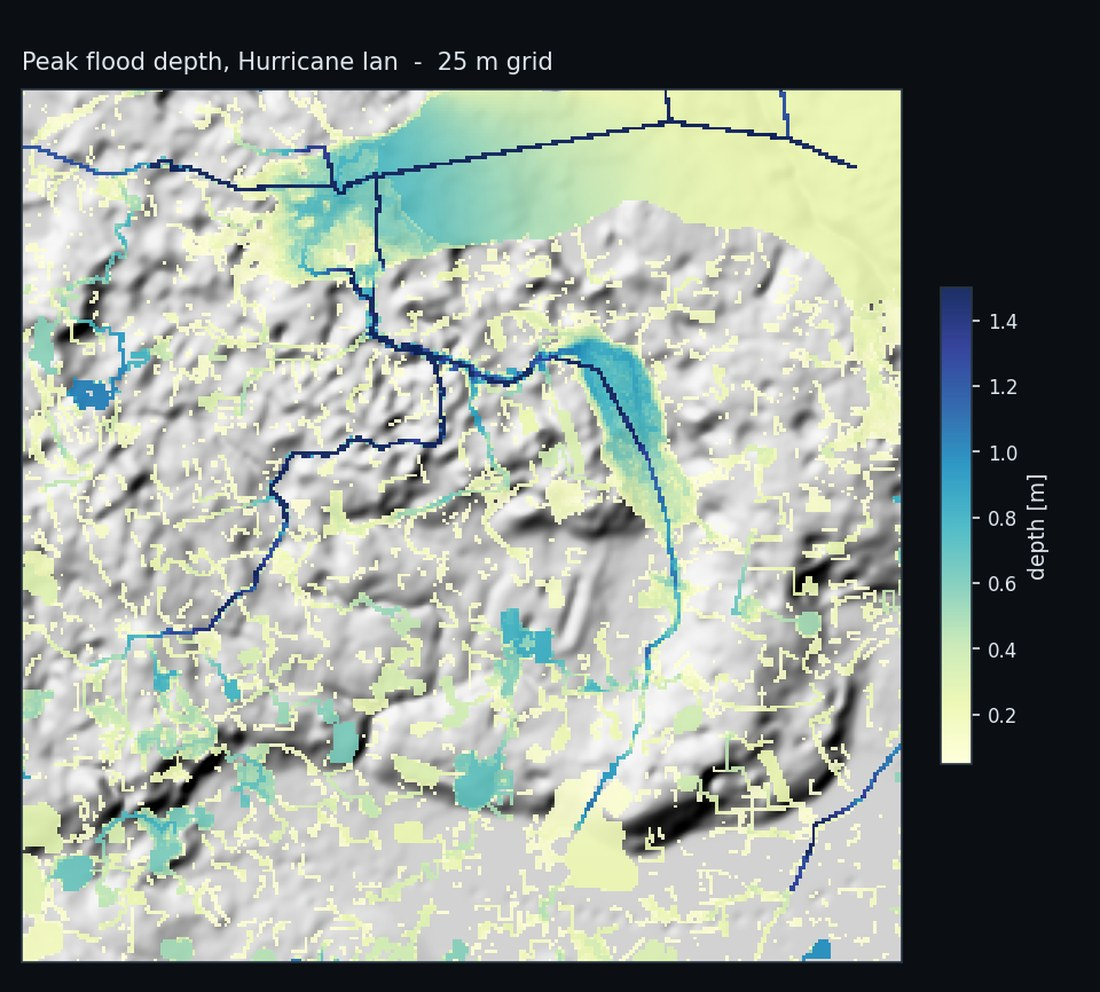
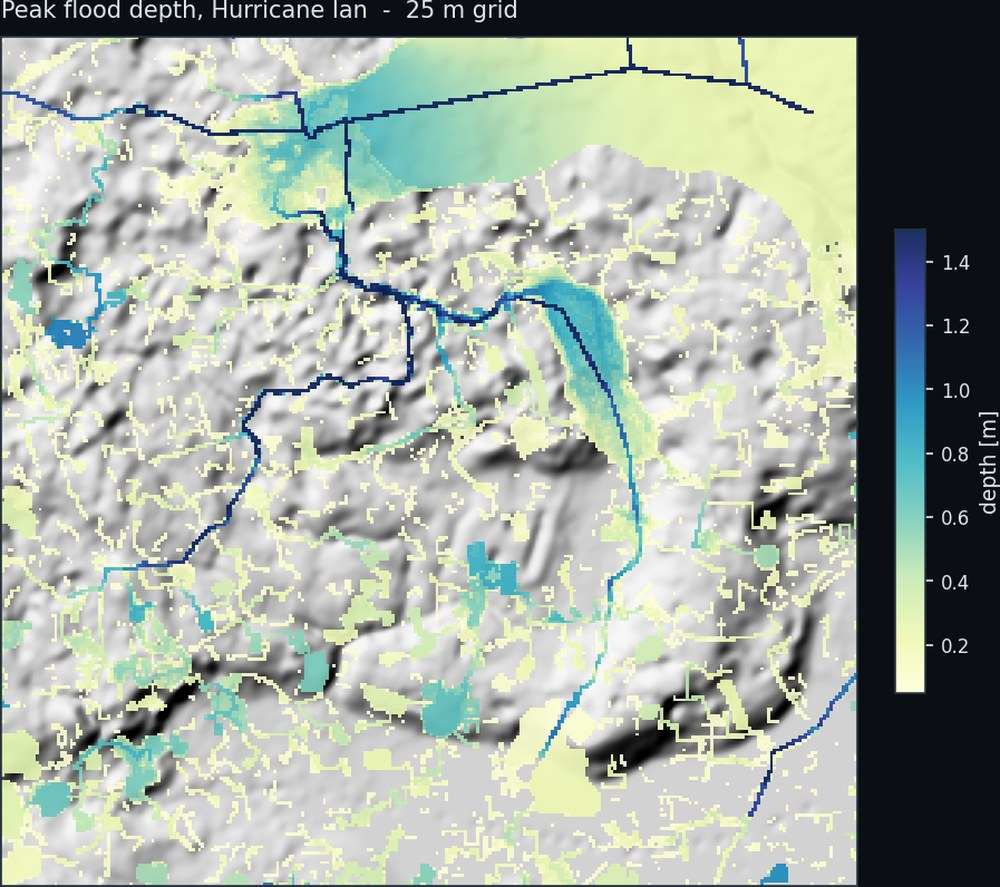
Fix fire card content, rename flood card, mark posters, trim flood figure
- Fire card rewritten from the CSDMS poster: it is fire dynamics, power
  supply and evacuation behaviour as one complex adaptive system, not
  generic compound hazards. Retitled 'Wildfire, power failure, and
  evacuation'; tags now include complex adaptive systems and evacuation.
- 'Flood digital twins from a coordinate' -> 'Site-specific flood
  digital twins'.
- Every conference entry that carried no badge is marked Poster.
- The flood figure was mostly dark padding, reading as a black block
  against the card. Border-trimmed 960x866 -> 897x796, so the map now
  fills the plate.

Claude-Session: https://claude.ai/code/session_01VQRwQxD7wGqEjXuAqsmFs3

diff --git a/index.html b/index.html
@@ -232,7 +232,7 @@
           <a class="research-figlink is-dark" href="pics/flood.jpg" target="_blank" rel="noopener" title="View full size"><img src="pics/flood.jpg" class="research-img"
                alt="Peak simulated flood depth for Hurricane Ian on a 25 m grid at Gee Creek, Florida, with depth shaded from pale yellow to dark blue over a hillshaded terrain and the drainage network picked out in blue" /></a>
           <div class="research-content">
-            <h3>Flood digital twins from a coordinate</h3>
+            <h3>Site-specific flood digital twins</h3>
             <p>
               Work from my time at Ecological Intelligence on the
               <a href="https://github.com/legel/deepearth/tree/models-hydro/models/hydro" target="_blank" rel="noopener">DeepEarth hydro model</a>:
@@ -267,29 +267,34 @@
       <article class="research-card">
         <div class="research-card-main">
           <a class="research-figlink" href="pics/fire.jpg" target="_blank" rel="noopener" title="View full size"><img src="pics/fire.jpg" class="research-img"
-               alt="MauiFireScape agent-based model mid-simulation: active fire in red, burned cells in black, and evacuating residents moving through the housing grid" /></a>
+               alt="MauiFireScape mid-simulation: active fire in red, burned cells in black, and residents evacuating through the housing grid" /></a>
           <div class="research-content">
-            <h3>Fire and compound hazards</h3>
+            <h3>Wildfire, power failure, and evacuation</h3>
             <p>
-              Wildfires, floods, and landslides are often triggered by the same persistent
-              circulation patterns and arrive in clusters that overwhelm local-scale risk
-              management. I model how they interact across natural and human systems.
+              Most wildfire models simulate fire spread alone, leaving out the infrastructure and
+              the people the fire is actually moving through. The 2023 Maui fires showed why that
+              matters: powerline failures ignited the fires, hurricane-force winds and dry fuels
+              drove them, and the outages that followed shaped how residents could evacuate.
             </p>
             <p>
-              MauiFireScape, an agent-based model in NetLogo, couples wildfire spread with
-              cascading power outages and evacuation behaviour to find the tipping points where a
-              community&rsquo;s response collapses. Related work covers flood and landslide exposure
-              during the 2023 California atmospheric river event, and post-fire landslide
-              susceptibility around Lake Oroville after the 2020 North Complex Fire.
+              <a href="https://github.com/qhuang62/MauiFireScape" target="_blank" rel="noopener">MauiFireScape</a>,
+              an agent-based model in NetLogo, couples all three &mdash; plants, people, and power
+              &mdash; and follows the chain from ignition through hazard expansion and behavioural
+              response to cascading failure. Small changes in initial conditions produce drastically
+              different outcomes, and early warning and grid resilience emerge as the levers that
+              most reduce impact. Related work covers flood and landslide exposure during the 2023
+              California atmospheric river event, and post-fire landslide susceptibility around
+              Lake Oroville after the 2020 North Complex Fire.
             </p>
           </div>
         </div>
         <div class="research-footer">
           <div class="research-tags">
             <span>Agent-Based Modeling</span>
+            <span>Complex Adaptive Systems</span>
             <span>Cascading Failure</span>
+            <span>Evacuation Behaviour</span>
             <span>Remote Sensing</span>
-            <span>Google Earth Engine</span>
           </div>
           <p class="research-media">
             <a href="https://github.com/qhuang62/MauiFireScape" target="_blank" rel="noopener">Model code on GitHub</a>
@@ -391,31 +396,31 @@
       </li>
       <li>
         Liu, M., <strong>Huang, Q.</strong>, &amp; Lall, U. (2026, March). Controlling eddies in the
-        non-autonomous Lorenz-84 model. <em>APS Global Physics Summit 2026</em>.
+        non-autonomous Lorenz-84 model. <em>APS Global Physics Summit 2026</em>. <span class="badge">Poster</span>
       </li>
       <li>
         <strong>Huang, Q.</strong>, Liu, M., Lall, U., Kwon, Y., Kwon, H.&nbsp;H., &amp; Liu, Y. (2025,
         December). Weather Jiu-Jitsu: Steering tropical cyclones with small perturbations of the jet
-        stream in experiments with deep learning foundation models. <em>AGU Fall Meeting 2025</em>.
+        stream in experiments with deep learning foundation models. <em>AGU Fall Meeting 2025</em>. <span class="badge">Poster</span>
       </li>
       <li>
         Liu, M., <strong>Huang, Q.</strong>, &amp; Lall, U. (2025, December). Weather Jiu-Jitsu: Toward
         controlling atmospheric rivers with deep learning foundation models and adaptive
-        perturbation. <em>AGU Fall Meeting 2025</em>.
+        perturbation. <em>AGU Fall Meeting 2025</em>. <span class="badge">Poster</span>
       </li>
       <li>
         Liu, M., <strong>Huang, Q.</strong>, &amp; Lall, U. (2025, December). Weather Jiu-Jitsu: Toward
         adaptive control of extreme weather regimes using the seasonally forced Lorenz-84 model.
-        <em>AGU Fall Meeting 2025</em>.
+        <em>AGU Fall Meeting 2025</em>. <span class="badge">Poster</span>
       </li>
       <li>
         Lall, U., <strong>Huang, Q.</strong>, Liu, M., Kwon, H.&nbsp;H., &amp; Kwon, Y. (2025, December).
         Weather Jiu-Jitsu: Adaptive chaos control with deep learning of atmospheric dynamics.
-        <em>AGU Fall Meeting 2025</em>.
+        <em>AGU Fall Meeting 2025</em>. <span class="badge">Poster</span>
       </li>
       <li>
         <strong>Huang, Q.</strong> (2025, October). Weather Jiu-Jitsu: Climate adaptation for the
-        21st century. <em>ASU FLOW Conference</em>, Tempe, AZ.
+        21st century. <em>ASU FLOW Conference</em>, Tempe, AZ. <span class="badge">Poster</span>
       </li>
       <li>
         <strong>Huang, Q.</strong> (2025, May). Modeling wildfire dynamics, human behavior, and power
@@ -425,7 +430,7 @@
       <li>
         <strong>Huang, Q.</strong>, et&nbsp;al. (2024, December). Drinking water safety in NYS schools:
         Progress, challenges, and data gaps in lead testing and reporting.
-        <em>AGU Fall Meeting 2024</em>, Washington, D.C.
+        <em>AGU Fall Meeting 2024</em>, Washington, D.C. <span class="badge">Poster</span>
       </li>
     </ol>
   </section>
